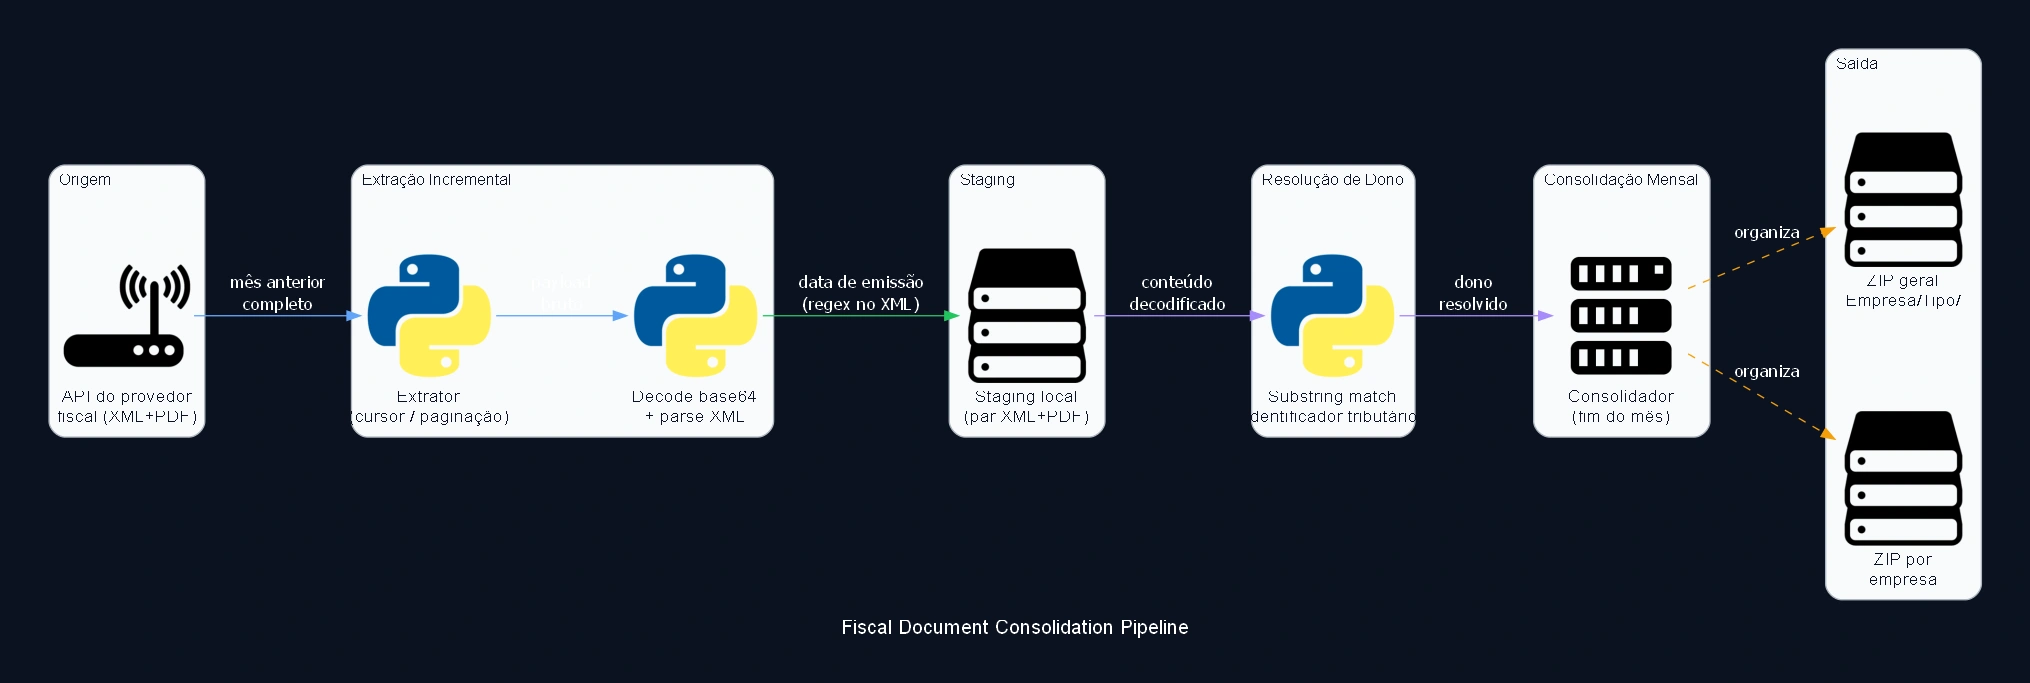
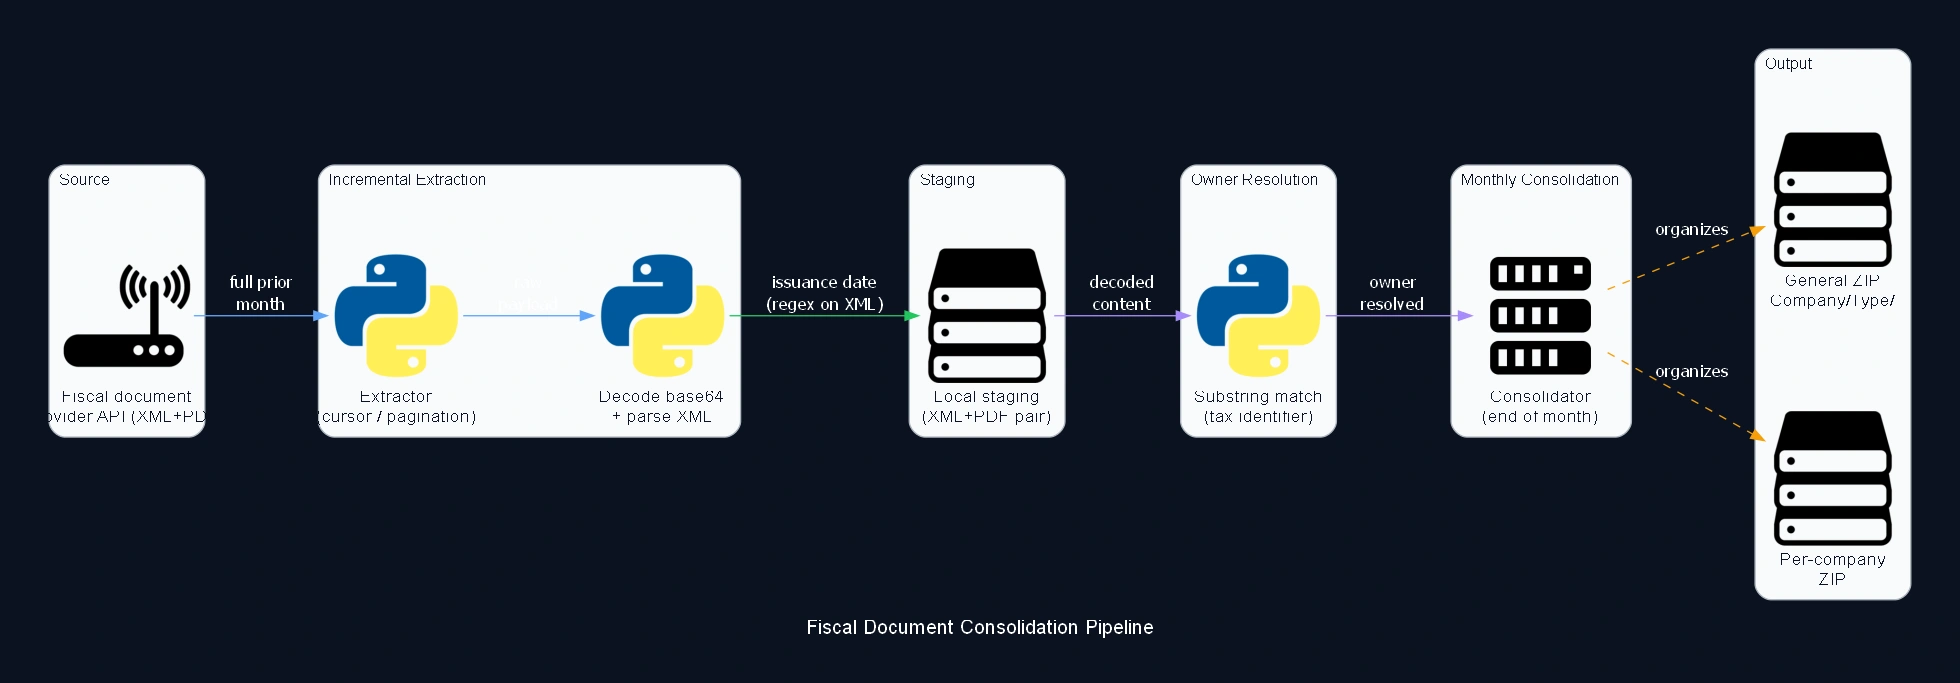
fix: regenerate architecture diagrams with English labels
Both diagrams (OTC desk, fiscal document) had Portuguese node/edge labels
regardless of page language. Regenerate with English text since the same
image is shared between PT and EN case-study pages, and update the
img width attrs to match the regenerated dimensions.

diff --git a/projects/fiscal-document-consolidation-pipeline.html b/projects/fiscal-document-consolidation-pipeline.html
@@ -149,7 +149,7 @@
             </div>
 
             <figure class="project-diagram">
-                <img id="diagram-img" src="../assets/images/fiscal_document_consolidation_pipeline_v1.webp" alt="Fiscal Document Consolidation Pipeline - diagrama de arquitetura" width="2030" height="683" loading="lazy" decoding="async" itemprop="image">
+                <img id="diagram-img" src="../assets/images/fiscal_document_consolidation_pipeline_v1.webp" alt="Fiscal Document Consolidation Pipeline - diagrama de arquitetura" width="1960" height="683" loading="lazy" decoding="async" itemprop="image">
                 <figcaption>Arquitetura do sistema</figcaption>
             </figure>
 

diff --git a/projects/fiscal-document-consolidation-pipeline-en.html b/projects/fiscal-document-consolidation-pipeline-en.html
@@ -149,7 +149,7 @@
             </div>
 
             <figure class="project-diagram">
-                <img id="diagram-img" src="../assets/images/fiscal_document_consolidation_pipeline_v1.webp" alt="Fiscal Document Consolidation Pipeline - architecture diagram" width="2030" height="683" loading="lazy" decoding="async" itemprop="image">
+                <img id="diagram-img" src="../assets/images/fiscal_document_consolidation_pipeline_v1.webp" alt="Fiscal Document Consolidation Pipeline - architecture diagram" width="1960" height="683" loading="lazy" decoding="async" itemprop="image">
                 <figcaption>System architecture</figcaption>
             </figure>
 

diff --git a/projects/otc-desk-reconciliation-pipeline.html b/projects/otc-desk-reconciliation-pipeline.html
@@ -149,7 +149,7 @@
             </div>
 
             <figure class="project-diagram">
-                <img id="diagram-img" src="../assets/images/otc_desk_reconciliation_pipeline_v1.webp" alt="OTC Desk Reconciliation Pipeline - diagrama de arquitetura" width="2335" height="498" loading="lazy" decoding="async" itemprop="image">
+                <img id="diagram-img" src="../assets/images/otc_desk_reconciliation_pipeline_v1.webp" alt="OTC Desk Reconciliation Pipeline - diagrama de arquitetura" width="2326" height="498" loading="lazy" decoding="async" itemprop="image">
                 <figcaption>Arquitetura do sistema</figcaption>
             </figure>
 

diff --git a/projects/otc-desk-reconciliation-pipeline-en.html b/projects/otc-desk-reconciliation-pipeline-en.html
@@ -149,7 +149,7 @@
             </div>
 
             <figure class="project-diagram">
-                <img id="diagram-img" src="../assets/images/otc_desk_reconciliation_pipeline_v1.webp" alt="OTC Desk Reconciliation Pipeline - architecture diagram" width="2335" height="498" loading="lazy" decoding="async" itemprop="image">
+                <img id="diagram-img" src="../assets/images/otc_desk_reconciliation_pipeline_v1.webp" alt="OTC Desk Reconciliation Pipeline - architecture diagram" width="2326" height="498" loading="lazy" decoding="async" itemprop="image">
                 <figcaption>System architecture</figcaption>
             </figure>
 
